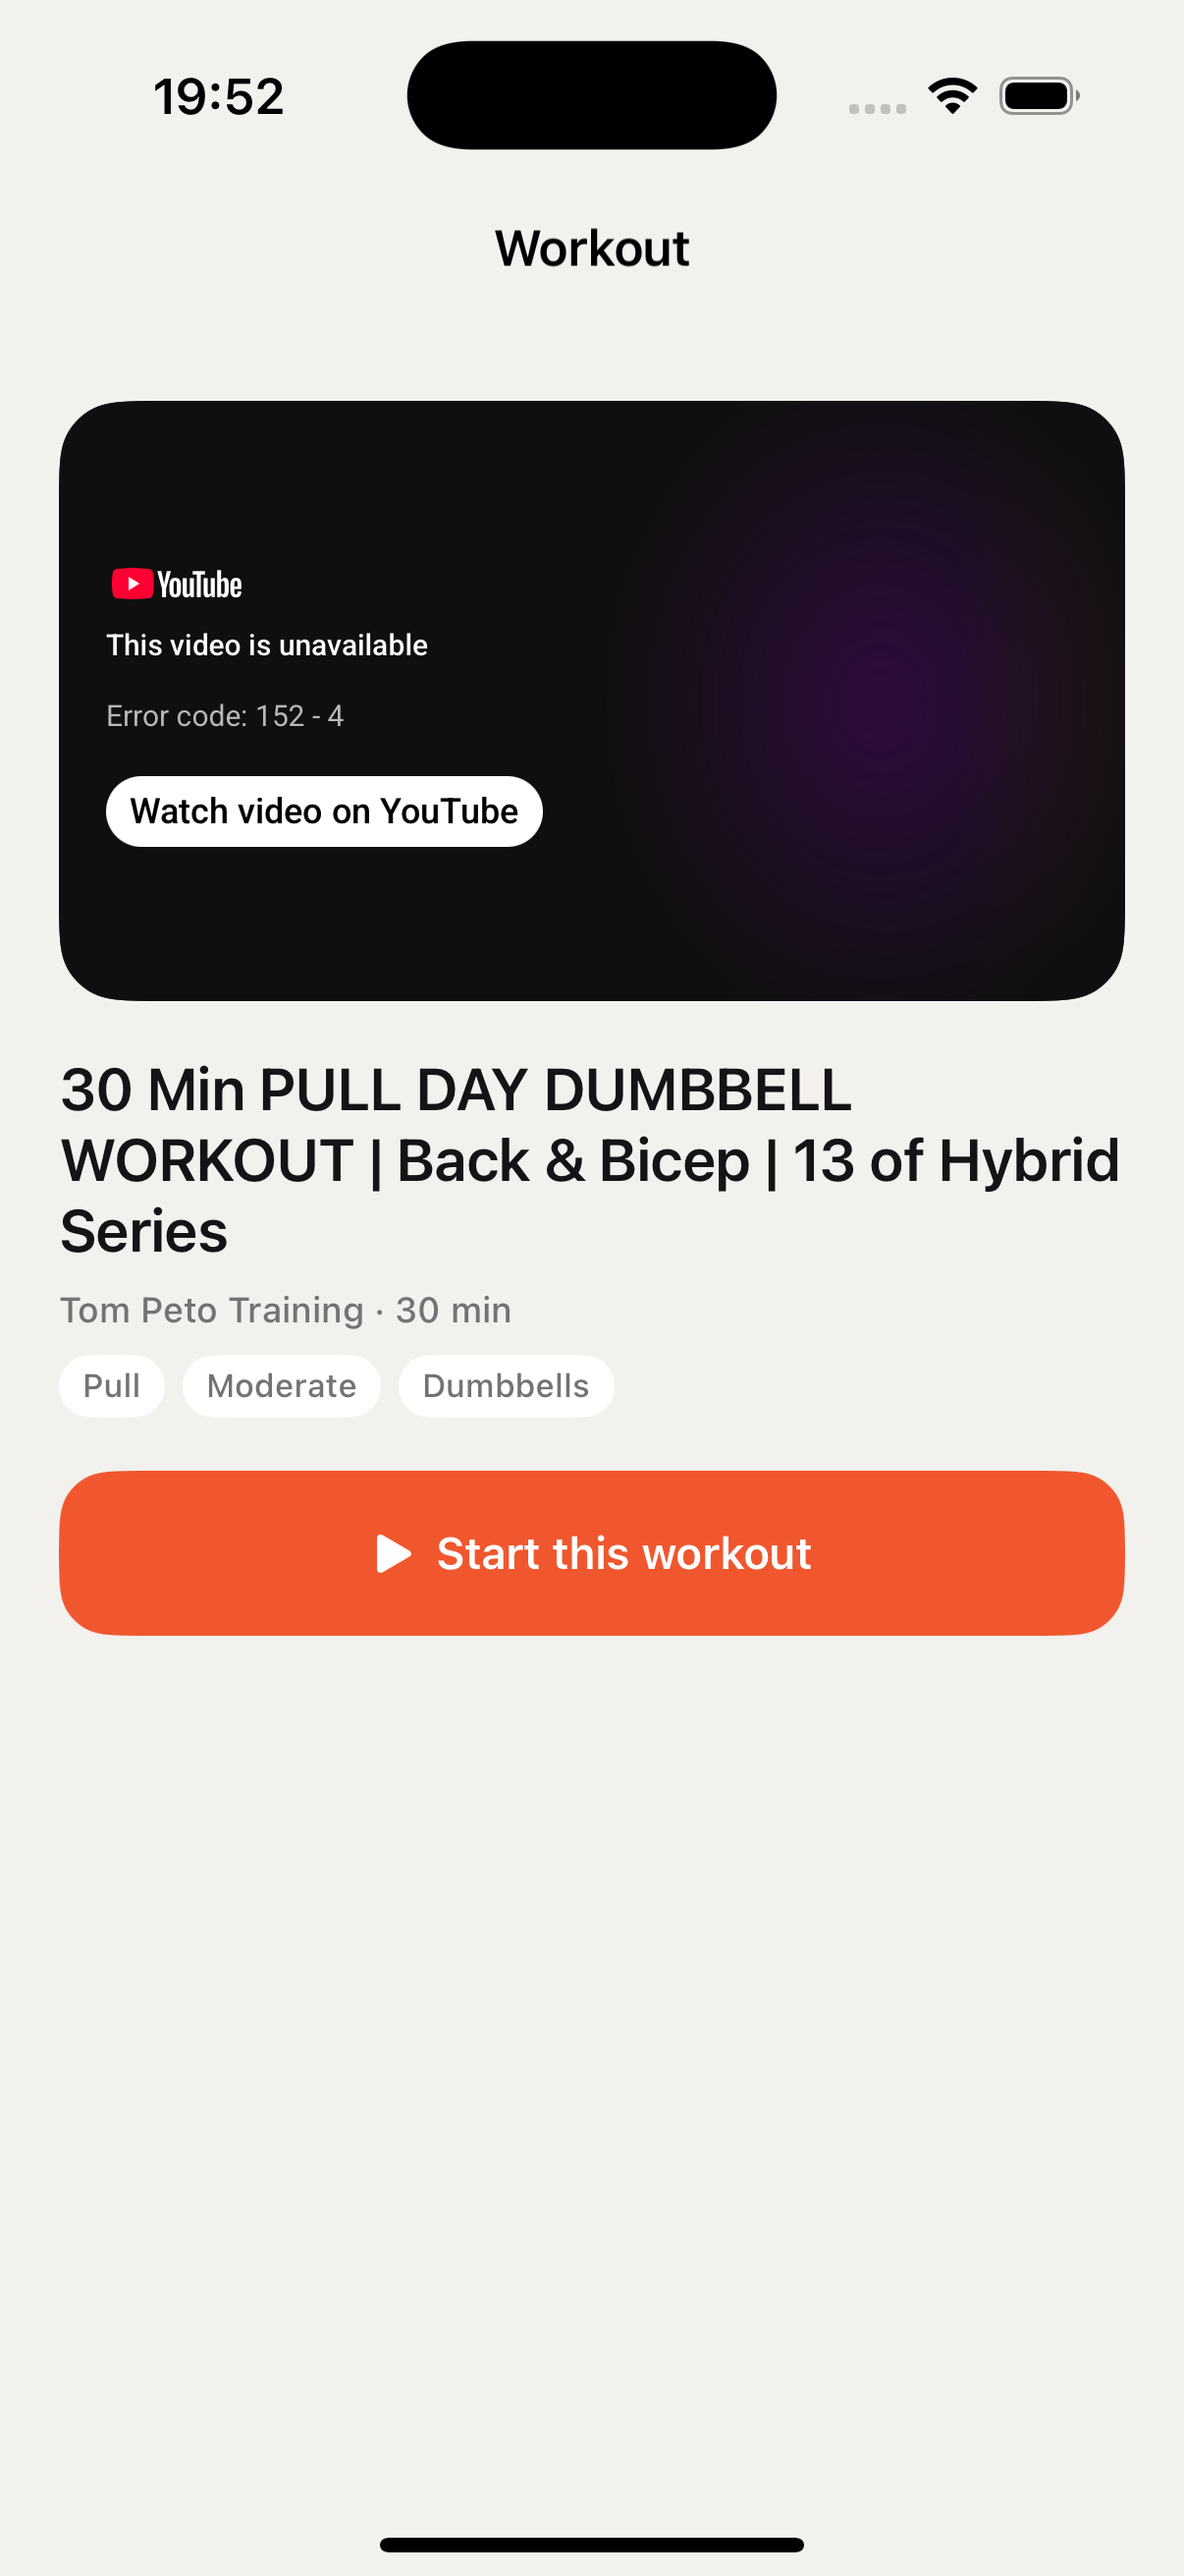
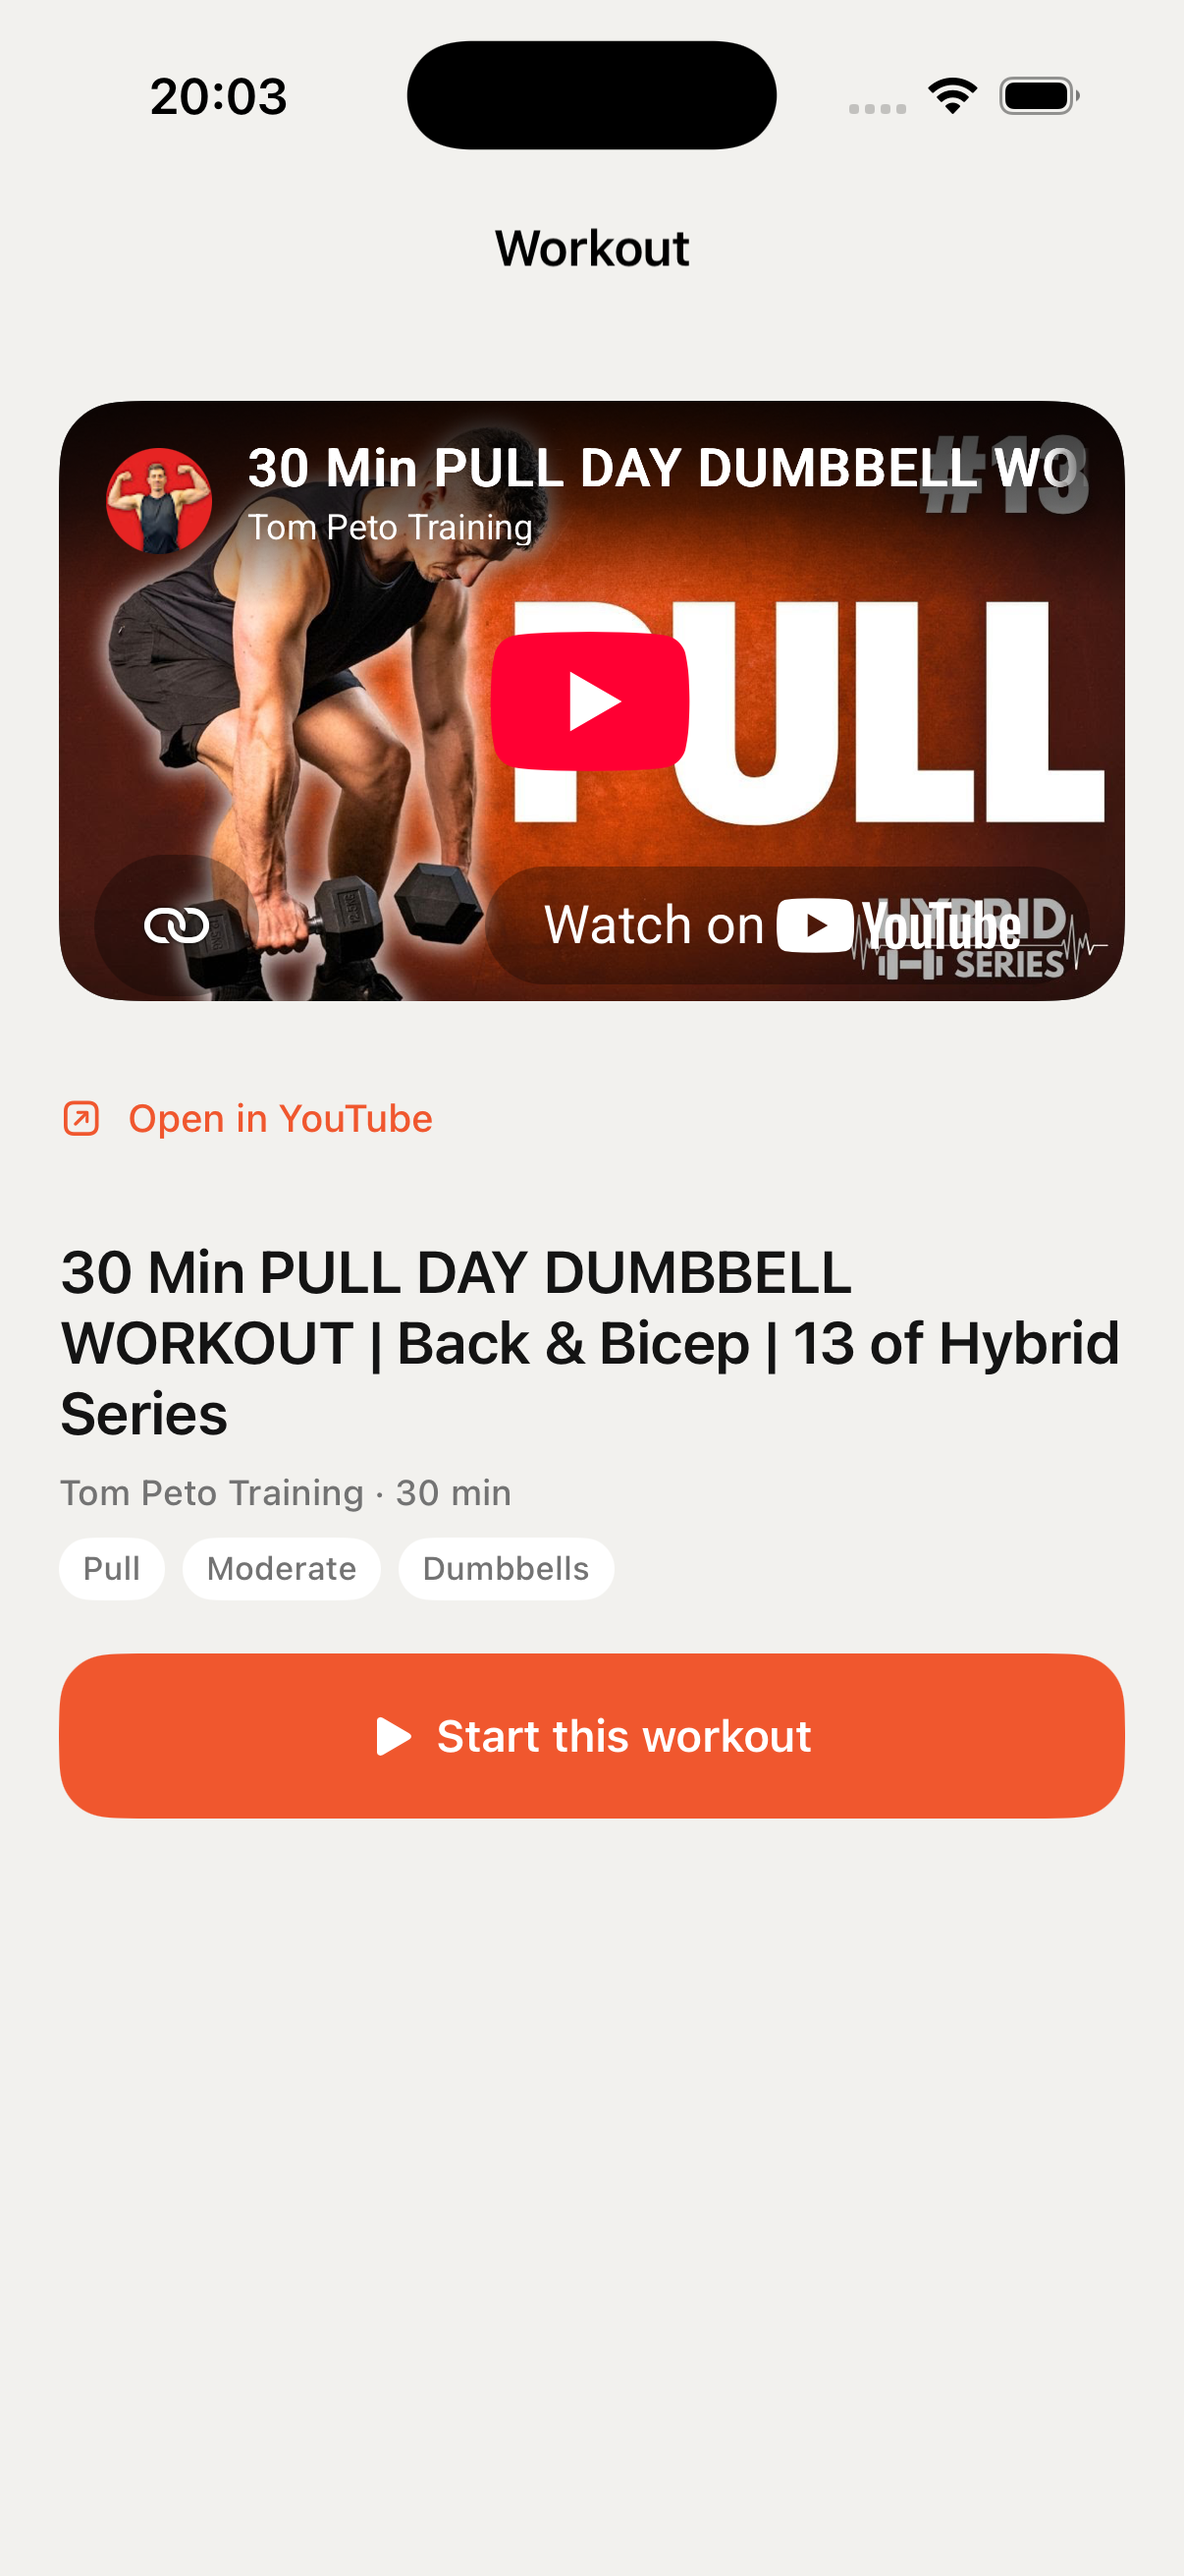
fix(workouts): give the embed an origin and a way out
The embed refused to play without an origin it accepts: none at all gave
"Video player configuration error", and youtube.com as the origin of a
youtube-nocookie.com player gave "This video is unavailable". Naming the
privacy-enhanced host in both the origin parameter and the wrapper page's
base URL plays all six seed videos.

"Open in YouTube" now sits under the player at all times rather than only
after a load failure, which a barred embed never triggers, and the spec
records that the landscape layout waits on the app allowing rotation.

diff --git a/LIfeOS/Features/Workouts/View/VideoWorkoutScreen.swift b/LIfeOS/Features/Workouts/View/VideoWorkoutScreen.swift
@@ -61,6 +61,7 @@ struct VideoWorkoutScreen: View {
                         .aspectRatio(VideoWorkoutLayout.playerAspectRatio, contentMode: .fit)
                         .frame(maxWidth: .infinity)
                         .clipShape(RoundedRectangle(cornerRadius: 22, style: .continuous))
+                    openInYouTube
                     details
                     if model.hasSession || model.saved {
                         if let readout = model.readout {
@@ -78,7 +79,6 @@ struct VideoWorkoutScreen: View {
                             .font(LifeOSType.secondary)
                             .foregroundStyle(LifeOSTokens.alertText.resolve(scheme))
                     }
-                    if playerFailed { openInYouTube }
                 }
                 .frame(maxWidth: 620).frame(maxWidth: .infinity)
                 .padding(20)
@@ -138,11 +138,17 @@ struct VideoWorkoutScreen: View {
         .disabled(model.busy)
     }
 
+    /// Always on the page, not only after a failure. A video the owner has
+    /// barred from embedding says so inside the player, where nothing this
+    /// screen can see reaches, and someone who simply prefers YouTube's own
+    /// app should not have to hit an error first to get there.
     private var openInYouTube: some View {
-        VStack(alignment: .leading, spacing: 6) {
-            Text("This video will not play here.")
-                .font(LifeOSType.secondary)
-                .foregroundStyle(LifeOSTokens.primaryText.resolve(scheme))
+        VStack(alignment: .leading, spacing: 2) {
+            if playerFailed {
+                Text("This video will not play here.")
+                    .font(LifeOSType.caption)
+                    .foregroundStyle(LifeOSTokens.primaryText.resolve(scheme))
+            }
             Button("Open in YouTube", systemImage: "arrow.up.forward.app") {
                 if let watchURL { openURL(watchURL) }
             }
@@ -233,7 +239,7 @@ struct VideoWorkoutScreen: View {
                         .font(LifeOSType.caption)
                         .foregroundStyle(LifeOSTokens.secondaryText.resolve(scheme))
                     ActivityControls(model: model, onDone: { showControls = false; dismiss() })
-                    if playerFailed { openInYouTube }
+                    openInYouTube
                 }
                 .frame(maxWidth: 620).frame(maxWidth: .infinity)
                 .padding(20)

diff --git a/LIfeOS/Features/Workouts/View/YouTubePlayerView.swift b/LIfeOS/Features/Workouts/View/YouTubePlayerView.swift
@@ -48,14 +48,14 @@ struct YouTubePlayerView: UIViewRepresentable {
             guard loaded != videoID, let url = VideoWorkoutLayout.embedURL(youtubeID: videoID) else { return }
             loaded = videoID
             // Loading the embed URL straight into the web view answers with
-            // "Video player configuration error, Error 153": the embed wants
-            // an embedding page it can read a referrer from. So the iframe is
-            // wrapped in a page of our own, based at youtube.com, which is
-            // what the player asks for and what every embed on the web is.
-            view.loadSimulatedRequest(URLRequest(url: Self.base), responseHTML: Self.page(embedding: url))
+            // "Video player configuration error, Error 153": the embed needs a
+            // page with an origin to sit in. So the iframe is wrapped in a
+            // page of our own, based at the host the embed's `origin` names,
+            // which is what youtube-ios-player-helper does too.
+            view.loadHTMLString(Self.page(embedding: url), baseURL: Self.base)
         }
 
-        static let base = URL(string: "https://www.youtube.com/")!
+        static let base = URL(string: VideoWorkoutLayout.embedOrigin)
 
         static func page(embedding url: URL) -> String {
             """

diff --git a/LIfeOS/Features/Workouts/Model/VideoWorkoutLayout.swift b/LIfeOS/Features/Workouts/Model/VideoWorkoutLayout.swift
@@ -16,7 +16,16 @@ enum VideoWorkoutLayout {
     /// The player's aspect ratio in portrait.
     static let playerAspectRatio: CGFloat = 16.0 / 9.0
 
+    /// `origin` and `enablejsapi` are what the embed checks before it will
+    /// play: with no origin at all it answers "Video player configuration
+    /// error", and with `youtube.com` as the origin, "This video is
+    /// unavailable". The privacy-enhanced host is the one it accepts, and it
+    /// is also the host `YouTubePlayerView` bases its wrapper page at, so the
+    /// page and the iframe agree about where this embed is.
+    static let embedOrigin = "https://www.youtube-nocookie.com"
+
     static func embedURL(youtubeID: String) -> URL? {
-        URL(string: "https://www.youtube-nocookie.com/embed/\(youtubeID)?playsinline=1&rel=0&modestbranding=1")
+        URL(string: "https://www.youtube-nocookie.com/embed/\(youtubeID)"
+            + "?origin=\(embedOrigin)&enablejsapi=1&playsinline=1&rel=0&modestbranding=1")
     }
 }

diff --git a/docs/superpowers/specs/2026-09-14-workout-library-design.md b/docs/superpowers/specs/2026-09-14-workout-library-design.md
@@ -204,6 +204,9 @@ what the terms name. Risk recorded: if YouTube flags the overlay, the
 fallback is a side rail, which the layout keeps as a code path behind one
 flag (`VideoWorkoutLayout.landscapeOverlay`).
 
+The app is portrait-only today; this layout is reachable only once the app
+allows rotation, which is a separate product decision.
+
 ### 5.4 Fitness segment and Begin Activity
 
 - The training card gains a tappable row "Plan today's workout ›" with the
